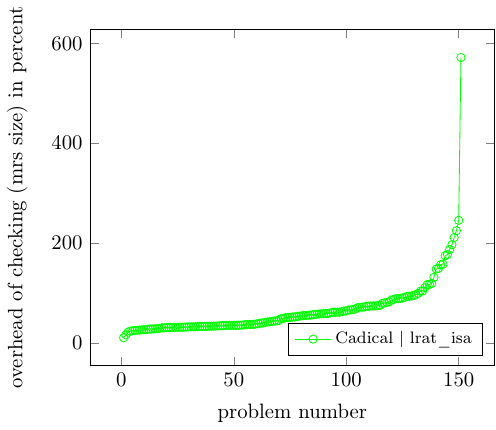
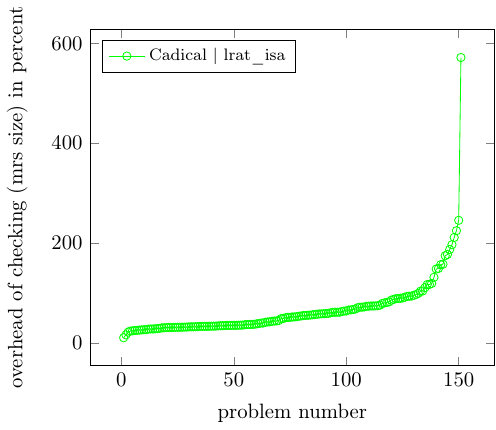
fixed legend pos

diff --git a/plots/ovh_wtime_streaming.tex b/plots/ovh_wtime_streaming.tex
@@ -12,7 +12,7 @@
 
   \begin{tikzpicture}[thick,scale=1, every node/.style={scale=1}] %change the scales if you like to reduce the size
     \begin{axis}[
-      legend style={font=\footnotesize, legend pos = south east},
+      legend style={font=\footnotesize, legend pos = north west},
       xlabel={problem number},
       ylabel={overhead of checking (wall-time) in percent},
 %       xmin=.1, ymin=.1,xmax=10000,ymax=10000,

diff --git a/plots/ovh_mrs_streaming.tex b/plots/ovh_mrs_streaming.tex
@@ -12,7 +12,7 @@
 
   \begin{tikzpicture}[thick,scale=1, every node/.style={scale=1}] %change the scales if you like to reduce the size
     \begin{axis}[
-      legend style={font=\footnotesize, legend pos = south east},
+      legend style={font=\footnotesize, legend pos = north west},
       xlabel={problem number},
       ylabel={overhead of checking (mrs size) in percent},
 %       xmin=.1, ymin=.1,xmax=10000,ymax=10000,
